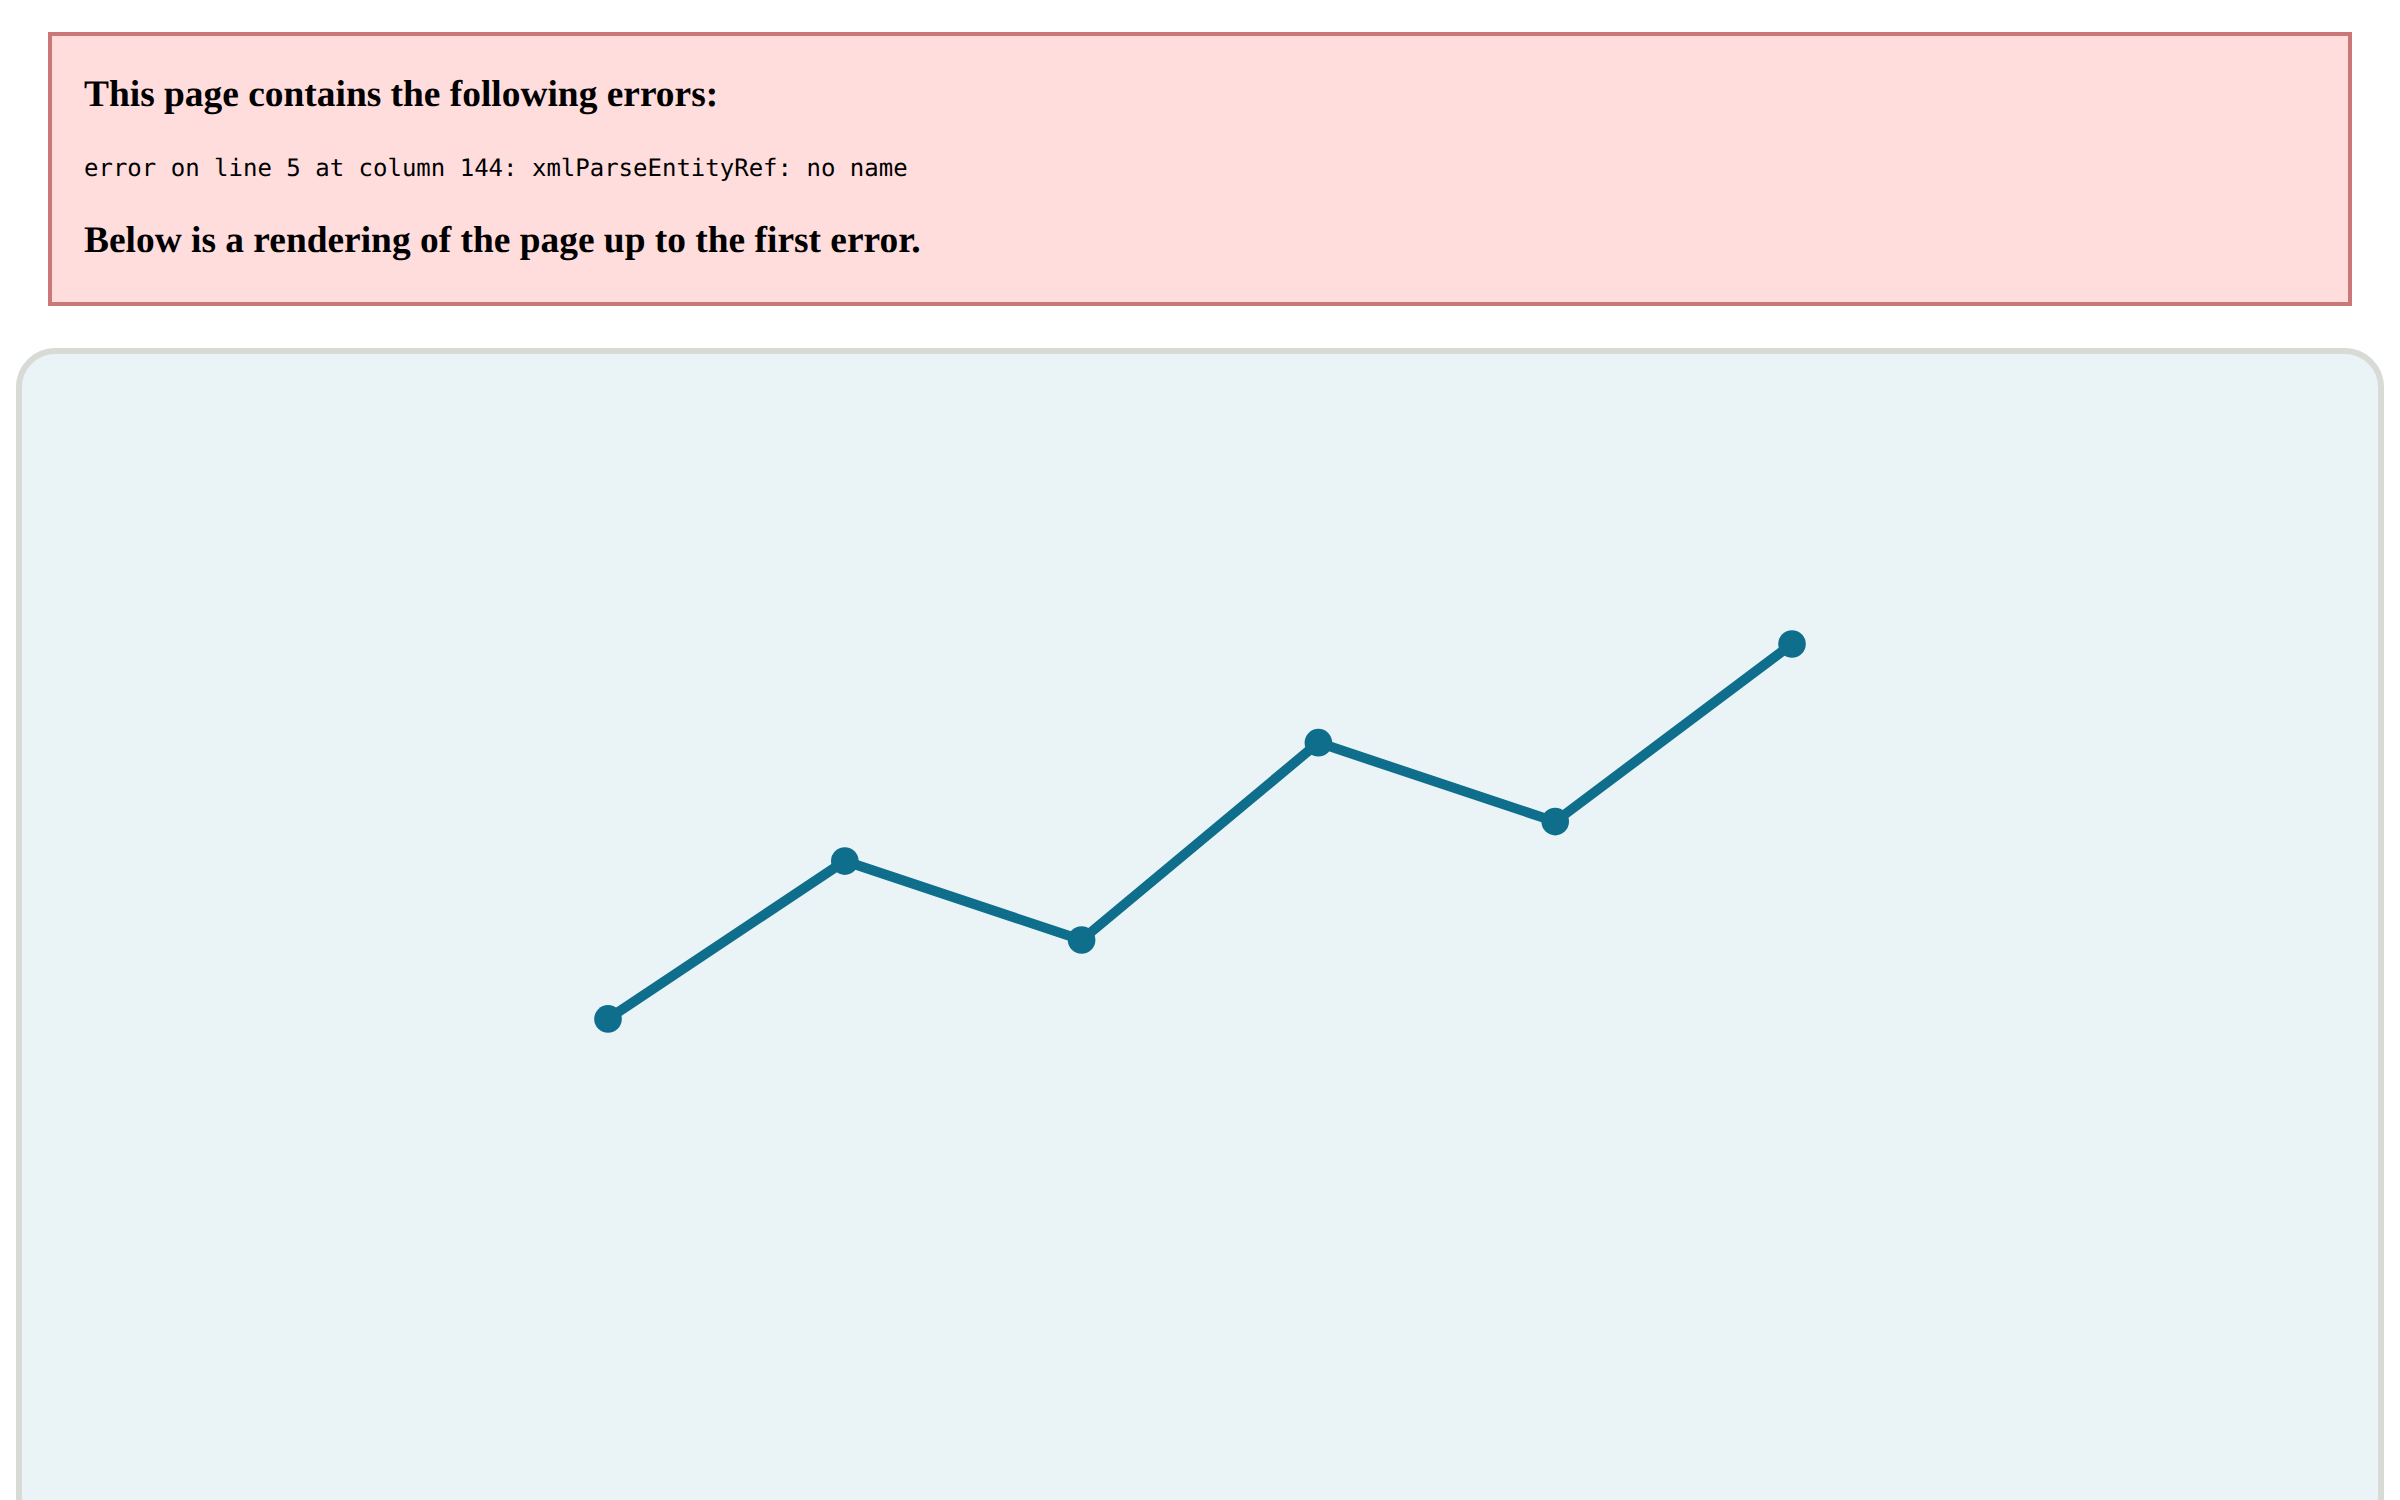
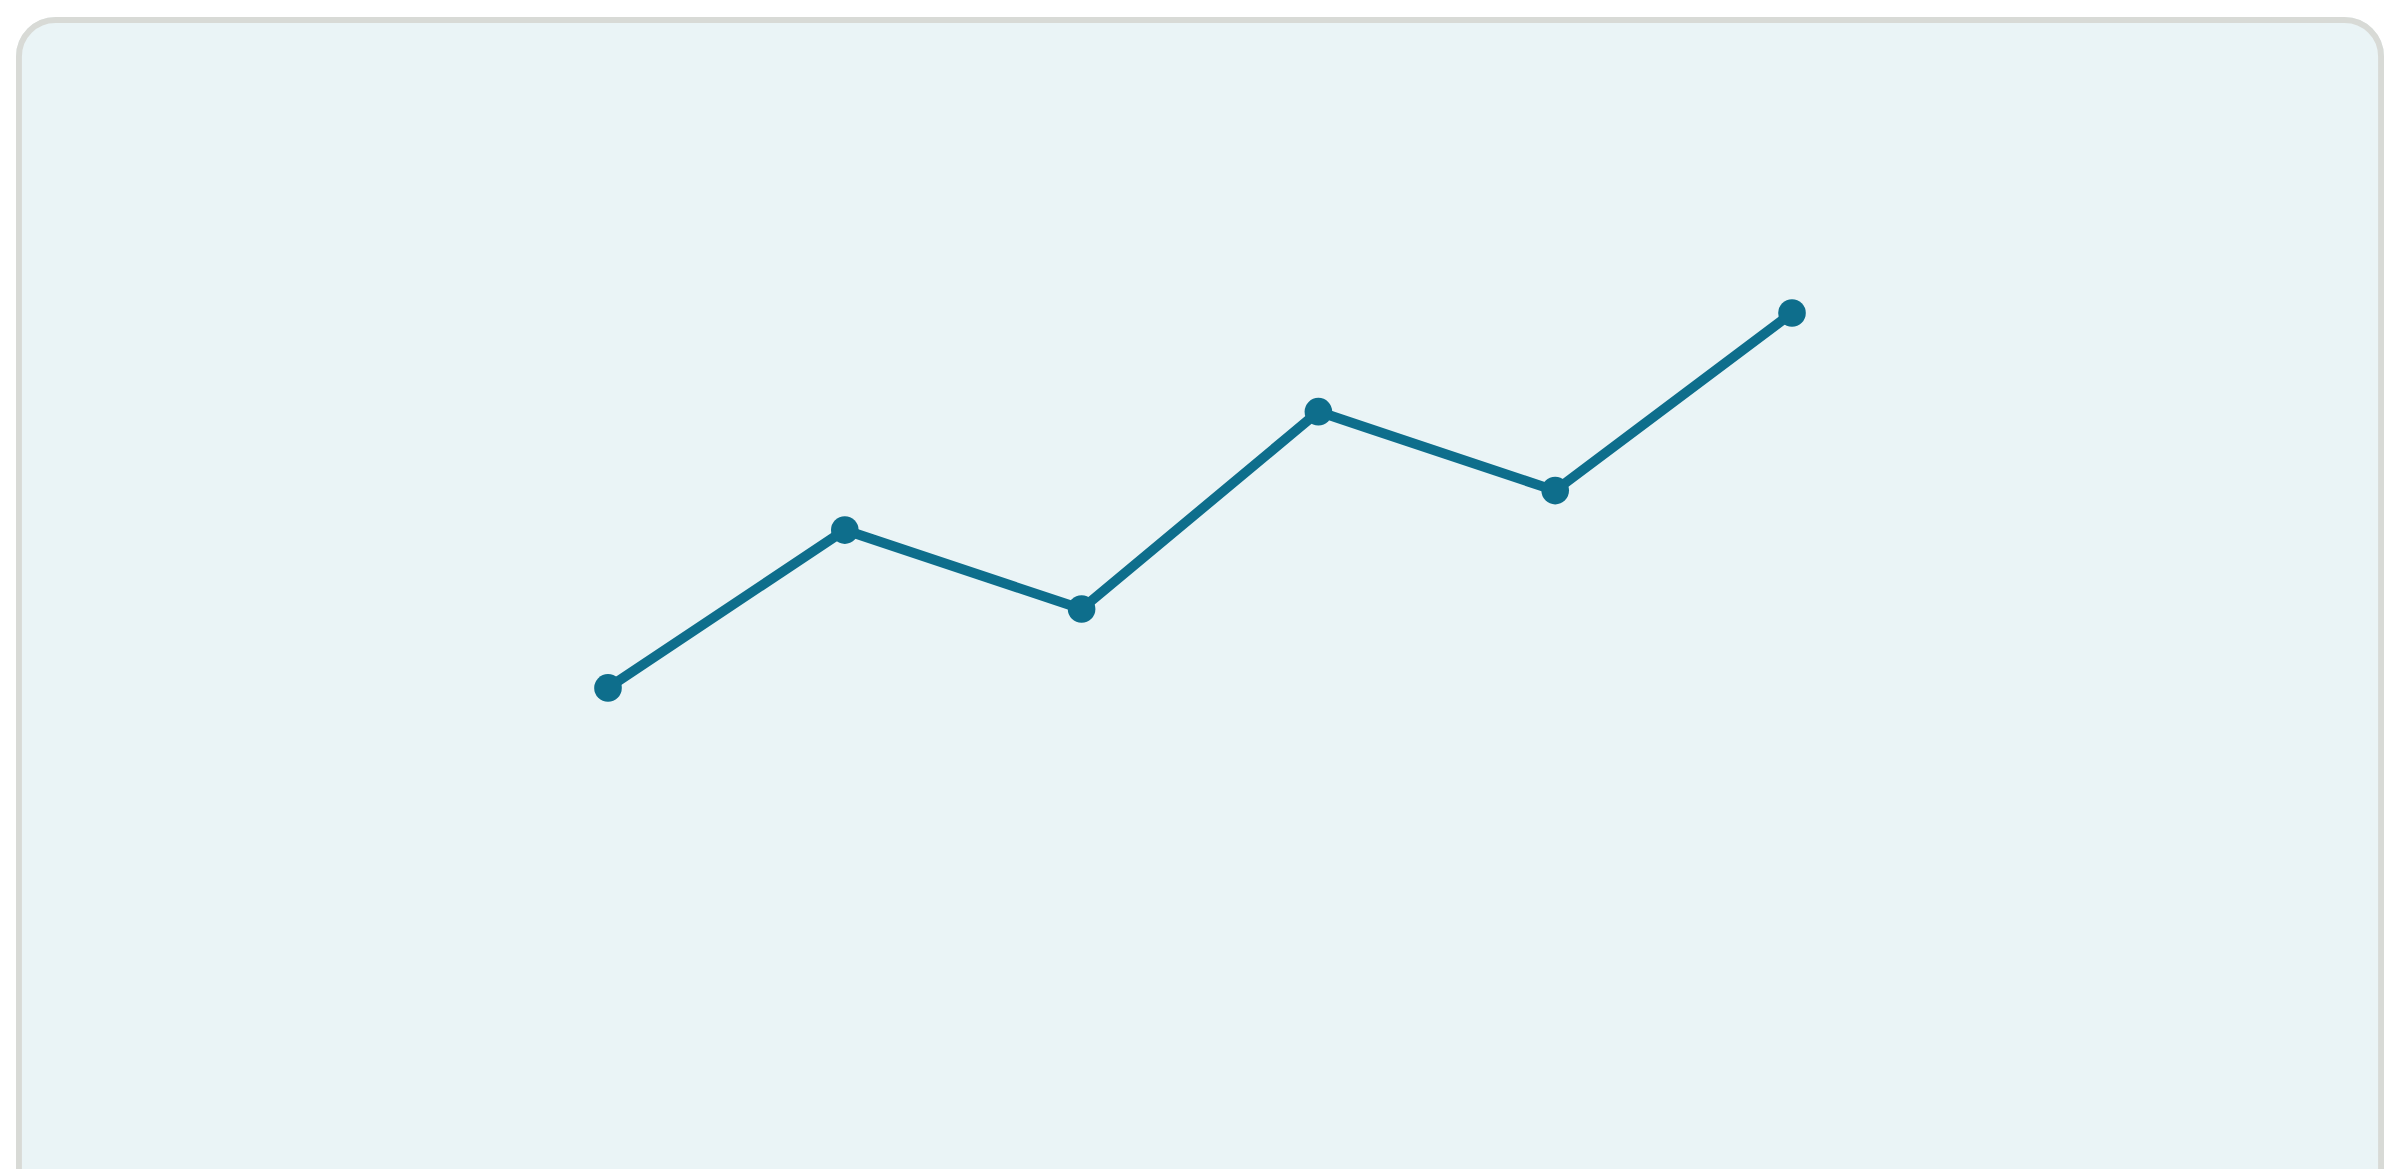
picts

diff --git a/content/experience.ts b/content/experience.ts
@@ -16,9 +16,10 @@ export const experience: ExperienceItem[] = [
       "Documented end-to-end development processes into structured reports, giving teams one reliable reference instead of scattered notes.",
       "Translated business process analysis into standardized documentation, letting the development team build from a shared source of truth.",
     ],
-    photos: [1, 2, 3, 4, 5].map((n) =>
-      photo(n as 1 | 2 | 3 | 4 | 5, "TODO: replace with a real photo from the Technical Writer Intern role"),
-    ),
+    photos: [1, 2, 3].map((n) => ({
+      src: `/placeholders/experience-photo-seeds-${n}.png`,
+      alt: "Technical Writer Intern experience",
+    })),
   },
   {
     role: "Mobile Programming Practicum Assistant",
@@ -30,9 +31,10 @@ export const experience: ExperienceItem[] = [
       "Walked students through fixes step by step, so they understood the reasoning and could apply it next time.",
       "Explained core concepts — UI components, data handling, event-driven programming — connecting theory to working code.",
     ],
-    photos: [2, 3, 4, 5, 1].map((n) =>
-      photo(n as 1 | 2 | 3 | 4 | 5, "TODO: replace with a real photo from the Mobile Programming Practicum Assistant role"),
-    ),
+    photos: [1, 2, 3].map((n) => ({
+      src: `/placeholders/experience-photo-mobile-${n}.png`,
+      alt: "Mobile Programming Practicum Assistant experience",
+    })),
   },
   {
     role: "Interface Design Practicum Assistant",
@@ -44,9 +46,7 @@ export const experience: ExperienceItem[] = [
       "Resolved most module-related questions directly as first-line support, cutting wait time for students.",
       "Escalated unresolved cases to lecturers with clear context, routing issues to the right person the first time.",
     ],
-    photos: [3, 4, 5, 1, 2].map((n) =>
-      photo(n as 1 | 2 | 3 | 4 | 5, "TODO: replace with a real photo from the Interface Design Practicum Assistant role"),
-    ),
+
   },
   {
     role: "Liaison Officer Coordinator",
@@ -58,9 +58,10 @@ export const experience: ExperienceItem[] = [
       "Monitored progress in real time, catching delays early enough to adjust before they affected the event.",
       "Managed communication between participants, officers, and the organizing committee, keeping all three in sync.",
     ],
-    photos: [4, 5, 1, 2, 3].map((n) =>
-      photo(n as 1 | 2 | 3 | 4 | 5, "TODO: replace with a real photo from the Liaison Officer Coordinator role"),
-    ),
+    photos: [1, 2, 3].map((n) => ({
+      src: `/placeholders/experience-photo-sre-${n}.png`,
+      alt: "Liaison Officer Coordinator experience",
+    })),
   },
   {
     role: "Student Mentor",
